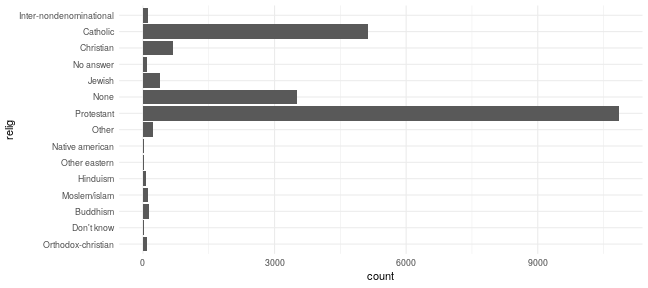
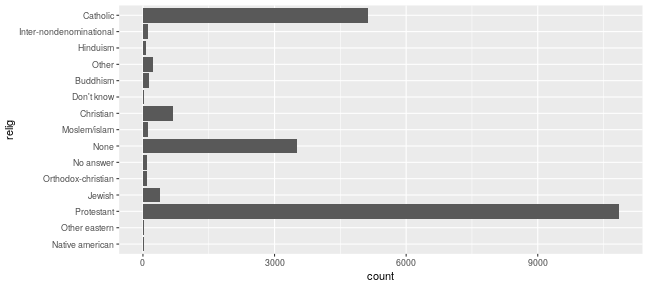
updates

diff --git a/02_r-intro/05_factors.html b/02_r-intro/05_factors.html
@@ -320,12 +320,10 @@ levels(gss_cat$relig)
 ```
 
 ```
-##  [1] "Orthodox-christian"      "Don't know"              "Not applicable"         
-##  [4] "Buddhism"                "Moslem/islam"            "Hinduism"               
-##  [7] "Other eastern"           "Native american"         "Other"                  
-## [10] "Protestant"              "None"                    "Jewish"                 
-## [13] "No answer"               "Christian"               "Catholic"               
-## [16] "Inter-nondenominational"
+##  [1] "Not applicable"          "Native american"         "Other eastern"           "Protestant"             
+##  [5] "Jewish"                  "Orthodox-christian"      "No answer"               "None"                   
+##  [9] "Moslem/islam"            "Christian"               "Don't know"              "Buddhism"               
+## [13] "Other"                   "Hinduism"                "Inter-nondenominational" "Catholic"
 ```
 
 manually (⚠ extremely sensitive to typos):
@@ -336,12 +334,10 @@ levels(factor(gss_cat$relig, levels=c("Moslem/islam", "Hinduism", "Buddhism", "O
 ```
 
 ```
-##  [1] "Moslem/islam"            "Hinduism"                "Buddhism"               
-##  [4] "Other eastern"           "Jewish"                  "Christian"              
-##  [7] "Orthodox-christian"      "Catholic"                "Protestant"             
-## [10] "Inter-nondenominational" "Native american"         "Other"                  
-## [13] "None"                    "No answer"               "Don't know"             
-## [16] "Not applicable"
+##  [1] "Moslem/islam"            "Hinduism"                "Buddhism"                "Other eastern"          
+##  [5] "Jewish"                  "Christian"               "Orthodox-christian"      "Catholic"               
+##  [9] "Protestant"              "Inter-nondenominational" "Native american"         "Other"                  
+## [13] "None"                    "No answer"               "Don't know"              "Not applicable"
 ```
 
 ---
@@ -376,12 +372,10 @@ levels(reorder(gss_cat$relig, gss_cat$tvhours, na.rm=TRUE))
 ```
 
 ```
-##  [1] "Other eastern"           "Hinduism"                "Buddhism"               
-##  [4] "Orthodox-christian"      "Moslem/islam"            "Jewish"                 
-##  [7] "None"                    "No answer"               "Other"                  
-## [10] "Christian"               "Inter-nondenominational" "Catholic"               
-## [13] "Protestant"              "Native american"         "Don't know"             
-## [16] "Not applicable"
+##  [1] "Other eastern"           "Hinduism"                "Buddhism"                "Orthodox-christian"     
+##  [5] "Moslem/islam"            "Jewish"                  "None"                    "No answer"              
+##  [9] "Other"                   "Christian"               "Inter-nondenominational" "Catholic"               
+## [13] "Protestant"              "Native american"         "Don't know"              "Not applicable"
 ```
 
 &lt;br/&gt;
@@ -454,10 +448,8 @@ levels(gss_cat$partyid)
 ```
 
 ```
-##  [1] "No answer"          "Don't know"         "Other party"       
-##  [4] "Strong republican"  "Not str republican" "Ind,near rep"      
-##  [7] "Independent"        "Ind,near dem"       "Not str democrat"  
-## [10] "Strong democrat"
+##  [1] "No answer"          "Don't know"         "Other party"        "Strong republican"  "Not str republican"
+##  [6] "Ind,near rep"       "Independent"        "Ind,near dem"       "Not str democrat"   "Strong democrat"
 ```
 
 
@@ -468,10 +460,8 @@ levels(gss_cat$partyid)
 ```
 
 ```
-##  [1] "No answer"          "Not sure"           "Other party"       
-##  [4] "Strong republican"  "Not str republican" "Ind,near rep"      
-##  [7] "Independent"        "Ind,near dem"       "Not str democrat"  
-## [10] "Strong democrat"
+##  [1] "No answer"          "Not sure"           "Other party"        "Strong republican"  "Not str republican"
+##  [6] "Ind,near rep"       "Independent"        "Ind,near dem"       "Not str democrat"   "Strong democrat"
 ```
 
 ---
@@ -488,10 +478,8 @@ levels(gss_cat$partyid)
 ```
 
 ```
-##  [1] "No answer"          "Not sure"           "Other party"       
-##  [4] "Strong republican"  "Not str republican" "Ind,near rep"      
-##  [7] "Independent"        "Ind,near dem"       "Not str democrat"  
-## [10] "Strong democrat"
+##  [1] "No answer"          "Not sure"           "Other party"        "Strong republican"  "Not str republican"
+##  [6] "Ind,near rep"       "Independent"        "Ind,near dem"       "Not str democrat"   "Strong democrat"
 ```
 
 
@@ -505,10 +493,9 @@ levels(partyid2)
 ```
 
 ```
-##  [1] "No answer"             "Not sure"              "Other party"          
-##  [4] "Republican, strong"    "Republican, weak"      "Independent, near rep"
-##  [7] "Independent"           "Independent, near dem" "Democrat, weak"       
-## [10] "Democrat, strong"
+##  [1] "No answer"             "Not sure"              "Other party"           "Republican, strong"   
+##  [5] "Republican, weak"      "Independent, near rep" "Independent"           "Independent, near dem"
+##  [9] "Democrat, weak"        "Democrat, strong"
 ```
 
 ---
@@ -542,8 +529,8 @@ summary(relig2)
 ```
 
 ```
-## Protestant       None     Jewish  Christian   Catholic      Other 
-##      10846       3523        388        689       5124        913
+## Protestant     Jewish       None  Christian   Catholic      Other 
+##      10846        388       3523        689       5124        913
 ```
 
 ---
@@ -563,7 +550,7 @@ summary(relig2)
 <style data-target="print-only">@media screen {.remark-slide-container{display:block;}.remark-slide-scaler{box-shadow:none;}}</style>
 <script src="https://remarkjs.com/downloads/remark-latest.min.js"></script>
 <script>var slideshow = remark.create({
-"highlightStyle": "github",
+"highlightStyle": "tomorrow",
 "highlightLines": true,
 "countIncrementalSlides": false
 });

diff --git a/02_r-intro/04_logical.html b/02_r-intro/04_logical.html
@@ -264,13 +264,9 @@ names(fbiwide)
 ```
 
 ```
-##  [1] "State"               "Abb"                
-##  [3] "Year"                "Population"         
-##  [5] "Aggravated.assault"  "Burglary"           
-##  [7] "Larceny.theft"       "Legacy.rape"        
-##  [9] "Motor.vehicle.theft" "Murder"             
-## [11] "Rape"                "Robbery"            
-## [13] "murder_rate"
+##  [1] "State"               "Abb"                 "Year"                "Population"          "Aggravated.assault" 
+##  [6] "Burglary"            "Larceny.theft"       "Legacy.rape"         "Motor.vehicle.theft" "Murder"             
+## [11] "Rape"                "Robbery"             "murder_rate"
 ```
 
 &lt;br/&gt;
@@ -305,7 +301,7 @@ The gapminder data we originally worked with is available [here](https://stat480
 <style data-target="print-only">@media screen {.remark-slide-container{display:block;}.remark-slide-scaler{box-shadow:none;}}</style>
 <script src="https://remarkjs.com/downloads/remark-latest.min.js"></script>
 <script>var slideshow = remark.create({
-"highlightStyle": "github",
+"highlightStyle": "tomorrow",
 "highlightLines": true,
 "countIncrementalSlides": false
 });

diff --git a/extras/x-theme.css b/extras/x-theme.css
@@ -44,7 +44,7 @@ a, a > code {
     color: #b58900;
     text-decoration: none;
 }
-strong{color:#283747;}
+strong{color:#84a9cd;}
 .inverse strong{color:#fdf6e3;}
 .inverse2 strong{color:#fdf6e3;}
 .yourturn strong{color:#fdf6e3;}
@@ -85,6 +85,7 @@ strong{color:#283747;}
 }
 .remark-code, .remark-inline-code {
   font-family: Inconsolata, 'Lucida Console', Monaco, monospace;
+  text-transform: none;
 }
 .remark-code {
   font-size: 0.9em;

diff --git a/02_r-intro/06_vis-factor.html b/02_r-intro/06_vis-factor.html
@@ -316,7 +316,7 @@ Cleveland and McGill (1984):
 <style data-target="print-only">@media screen {.remark-slide-container{display:block;}.remark-slide-scaler{box-shadow:none;}}</style>
 <script src="https://remarkjs.com/downloads/remark-latest.min.js"></script>
 <script>var slideshow = remark.create({
-"highlightStyle": "github",
+"highlightStyle": "tomorrow",
 "highlightLines": true,
 "countIncrementalSlides": false
 });
